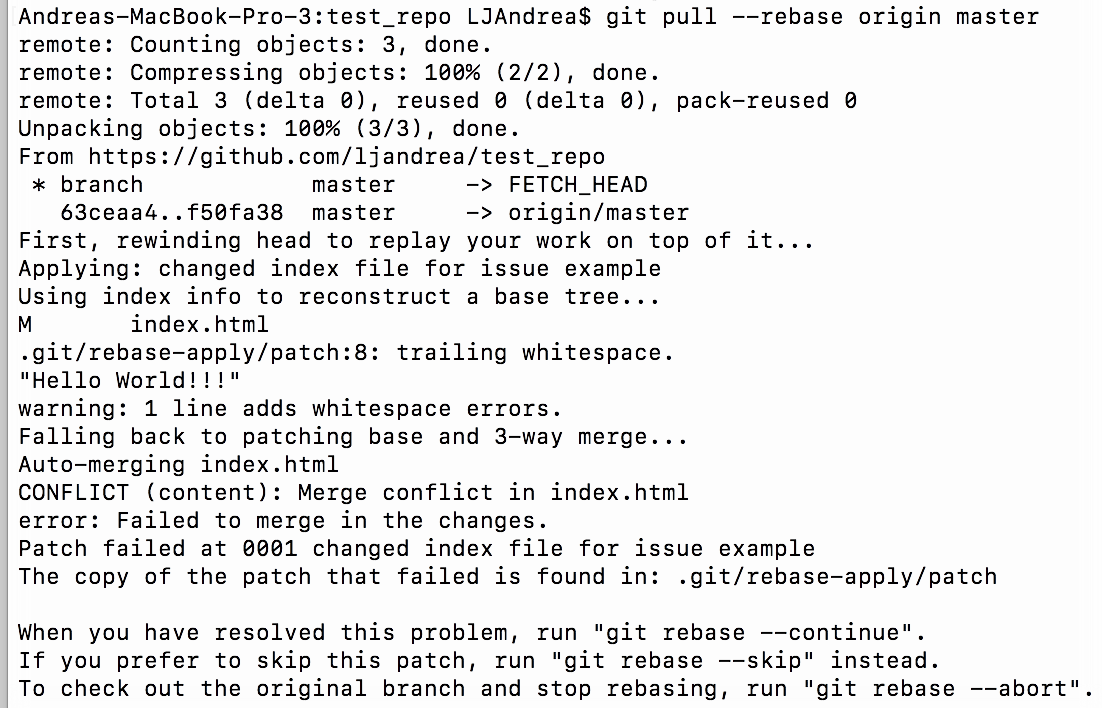
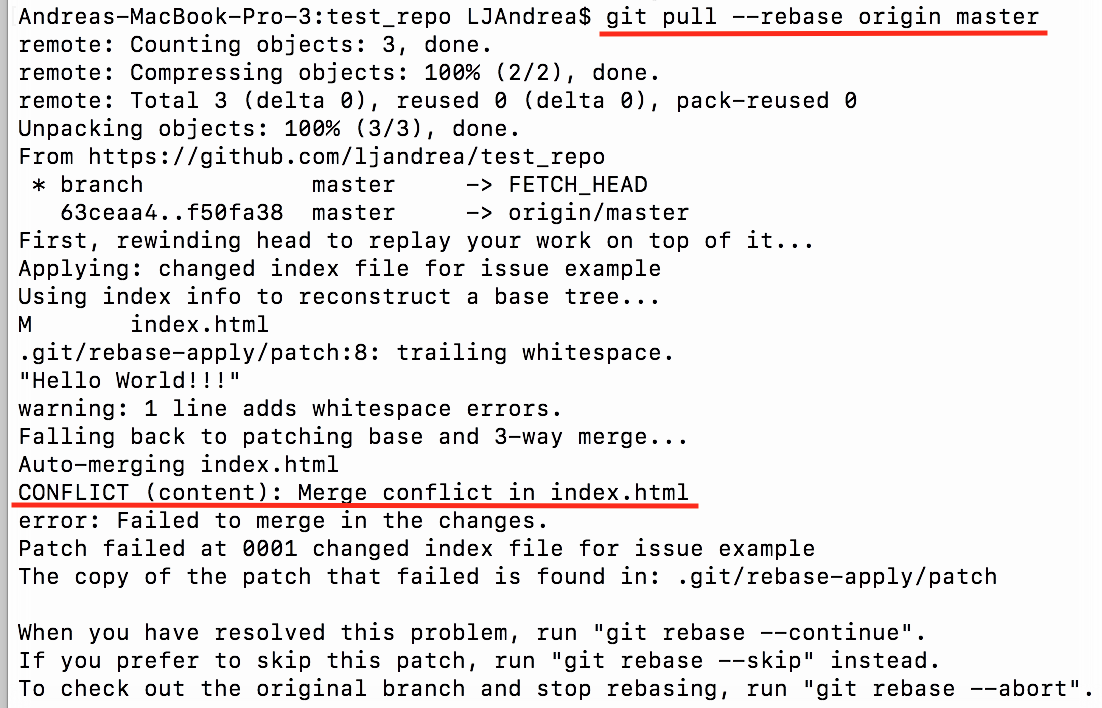
fixed formatting issues, edited pics to highlight commands

Changed region(s): [[0.0, 0.6836, 0.6171, 0.7458], [0.5245, 0.0311, 0.9564, 0.0621]]

diff --git a/README.md b/README.md
@@ -13,9 +13,11 @@
   ![terminal-loc](imgs/terminal-loc.png)
 
   Alternatively, you can type in ```cd``` for the Command Prompt or ```pwd``` for Terminal, and it should tell you where you are as well.
+
 2. On GitHub, go to your repository and click **Clone or download**. Then, click on the **clipboard symbol** to copy the url shown.
 
   ![clone](imgs/clone.png)
+
 3. In the Command Prompt/Terminal, type in the command ```git clone``` followed by the url you copied. This'll put a copy of your GitHub files on your computer.  (ADD PIC FOR COMMAND PROMPT)
 
   ![git-clone](imgs/git-clone.png)
@@ -29,7 +31,7 @@
 
   ![long-nav](imgs/cd-long-nav.png)
 
-  Or, you can type it in all in one line like this:
+  Or, you can type it in all in one line like this, with forward slashes separating each folder:
 
   ![short-nav](imgs/cd-short-nav.png)
 
